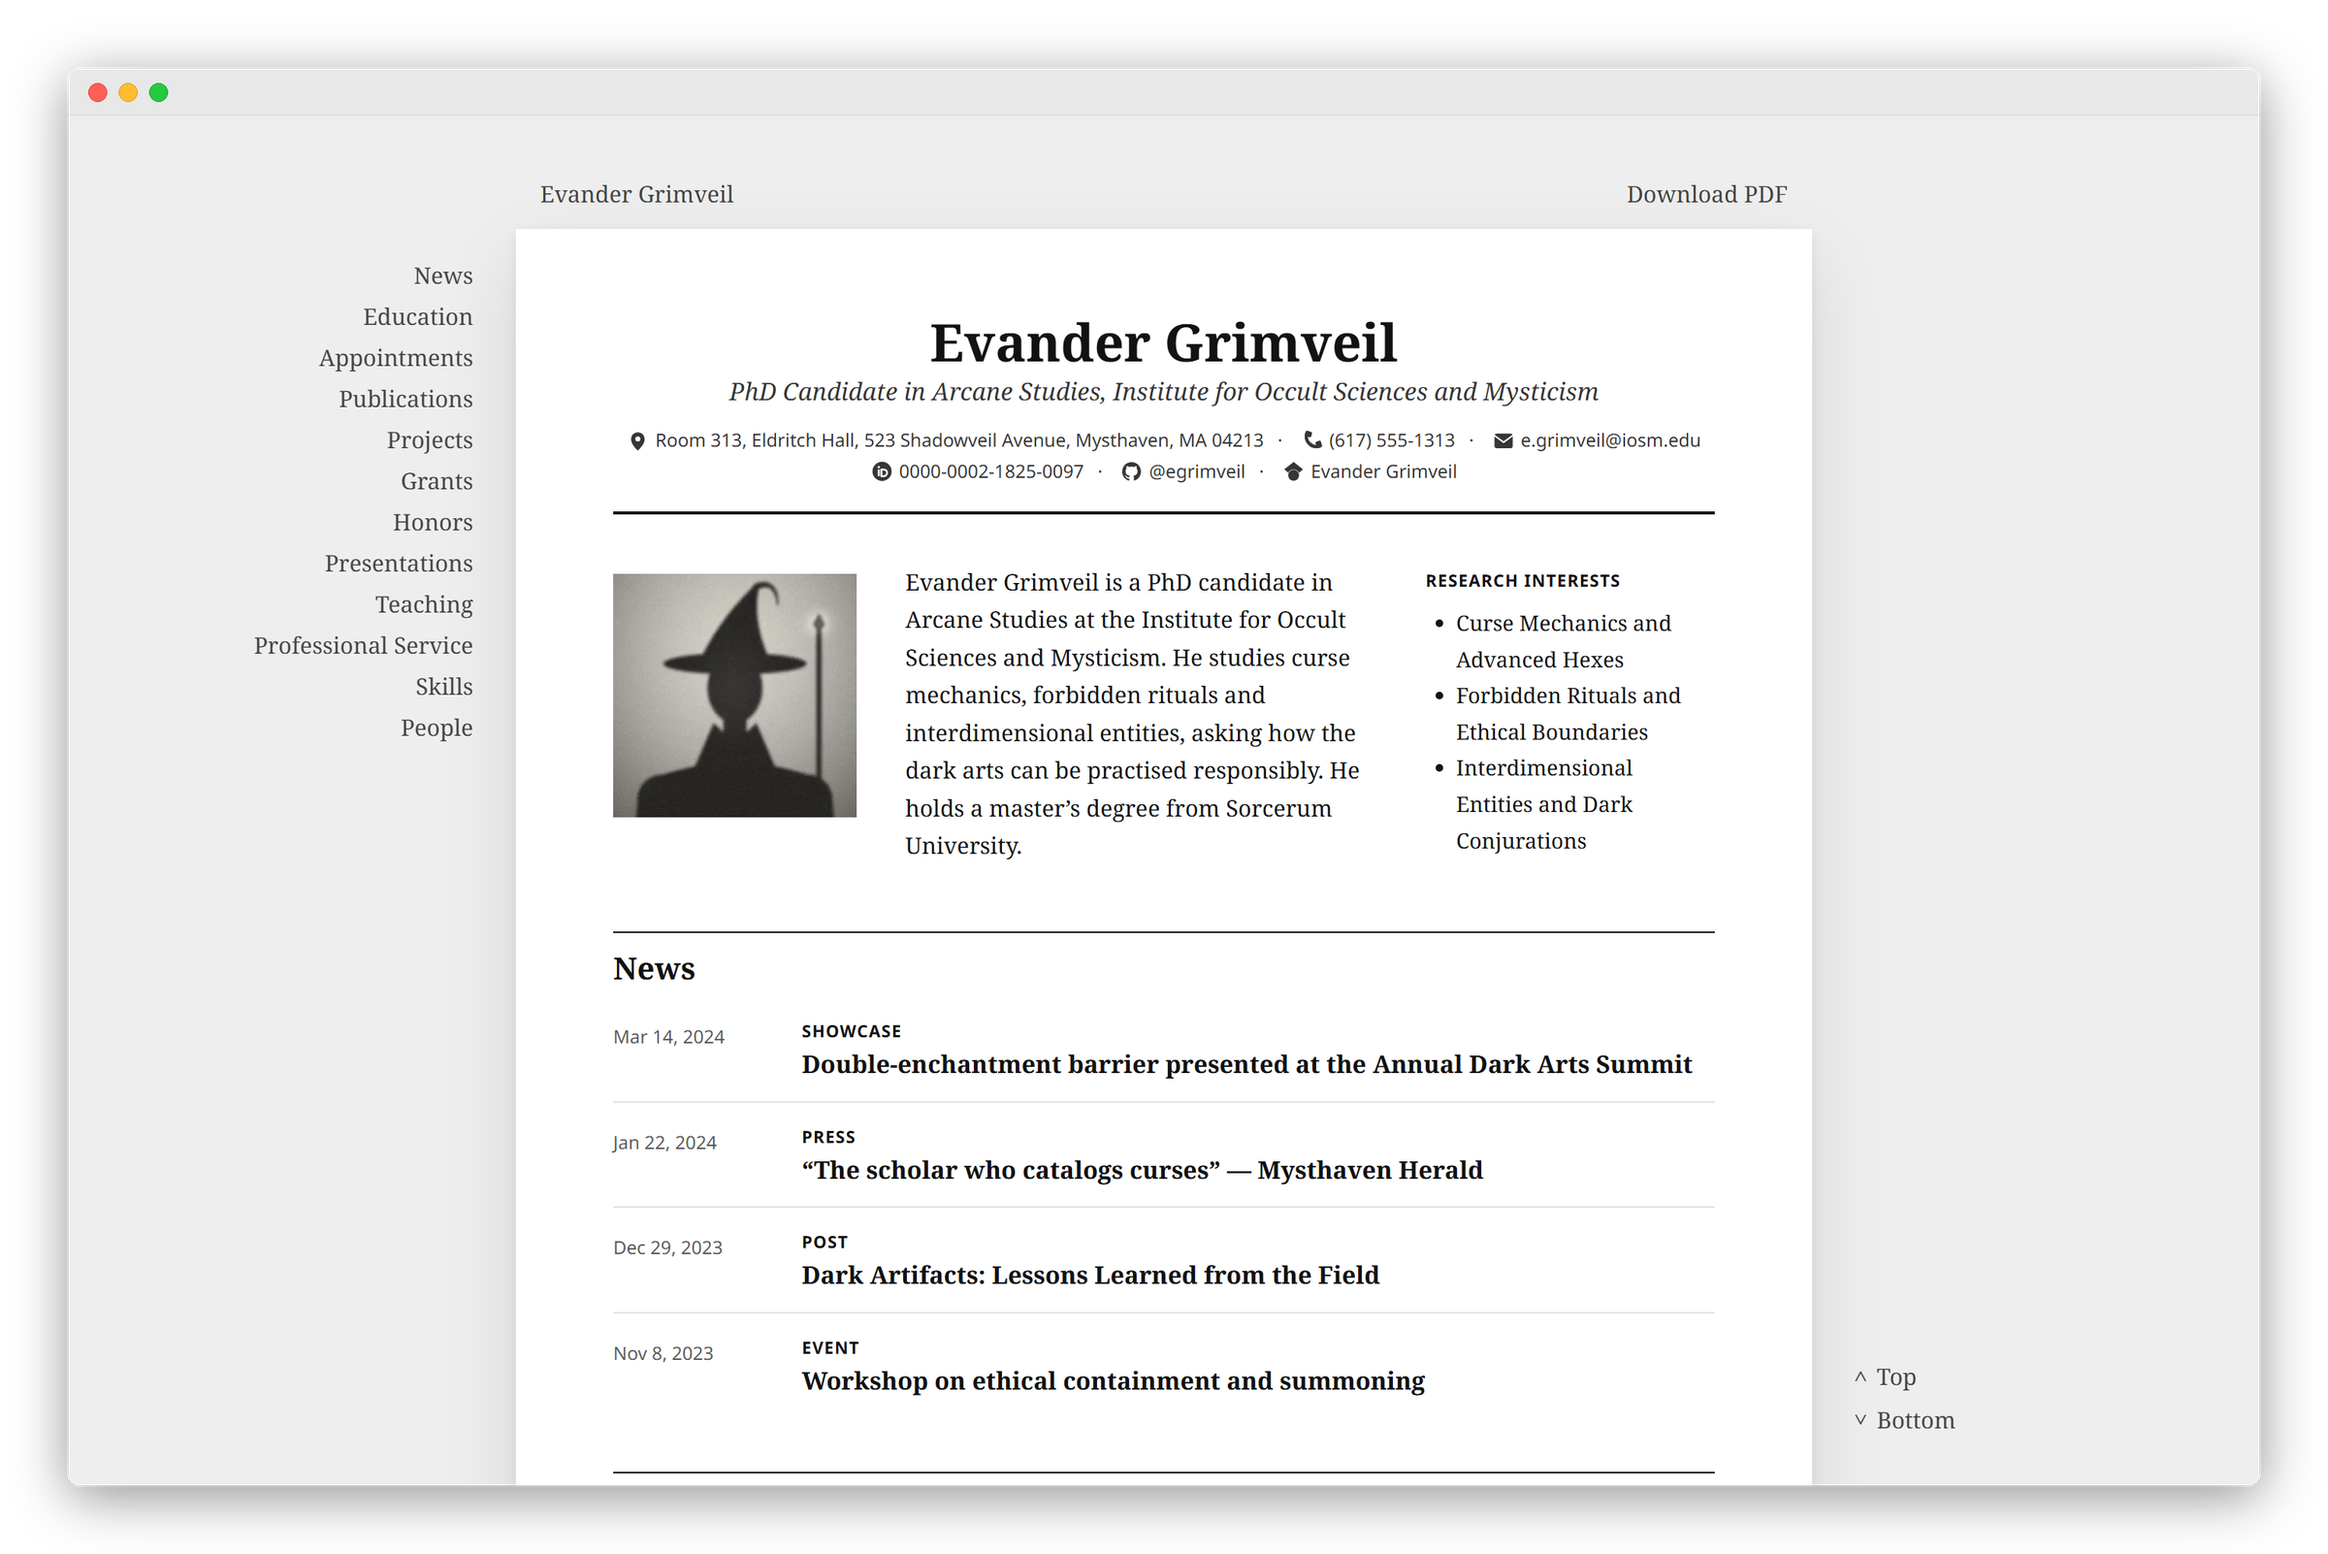
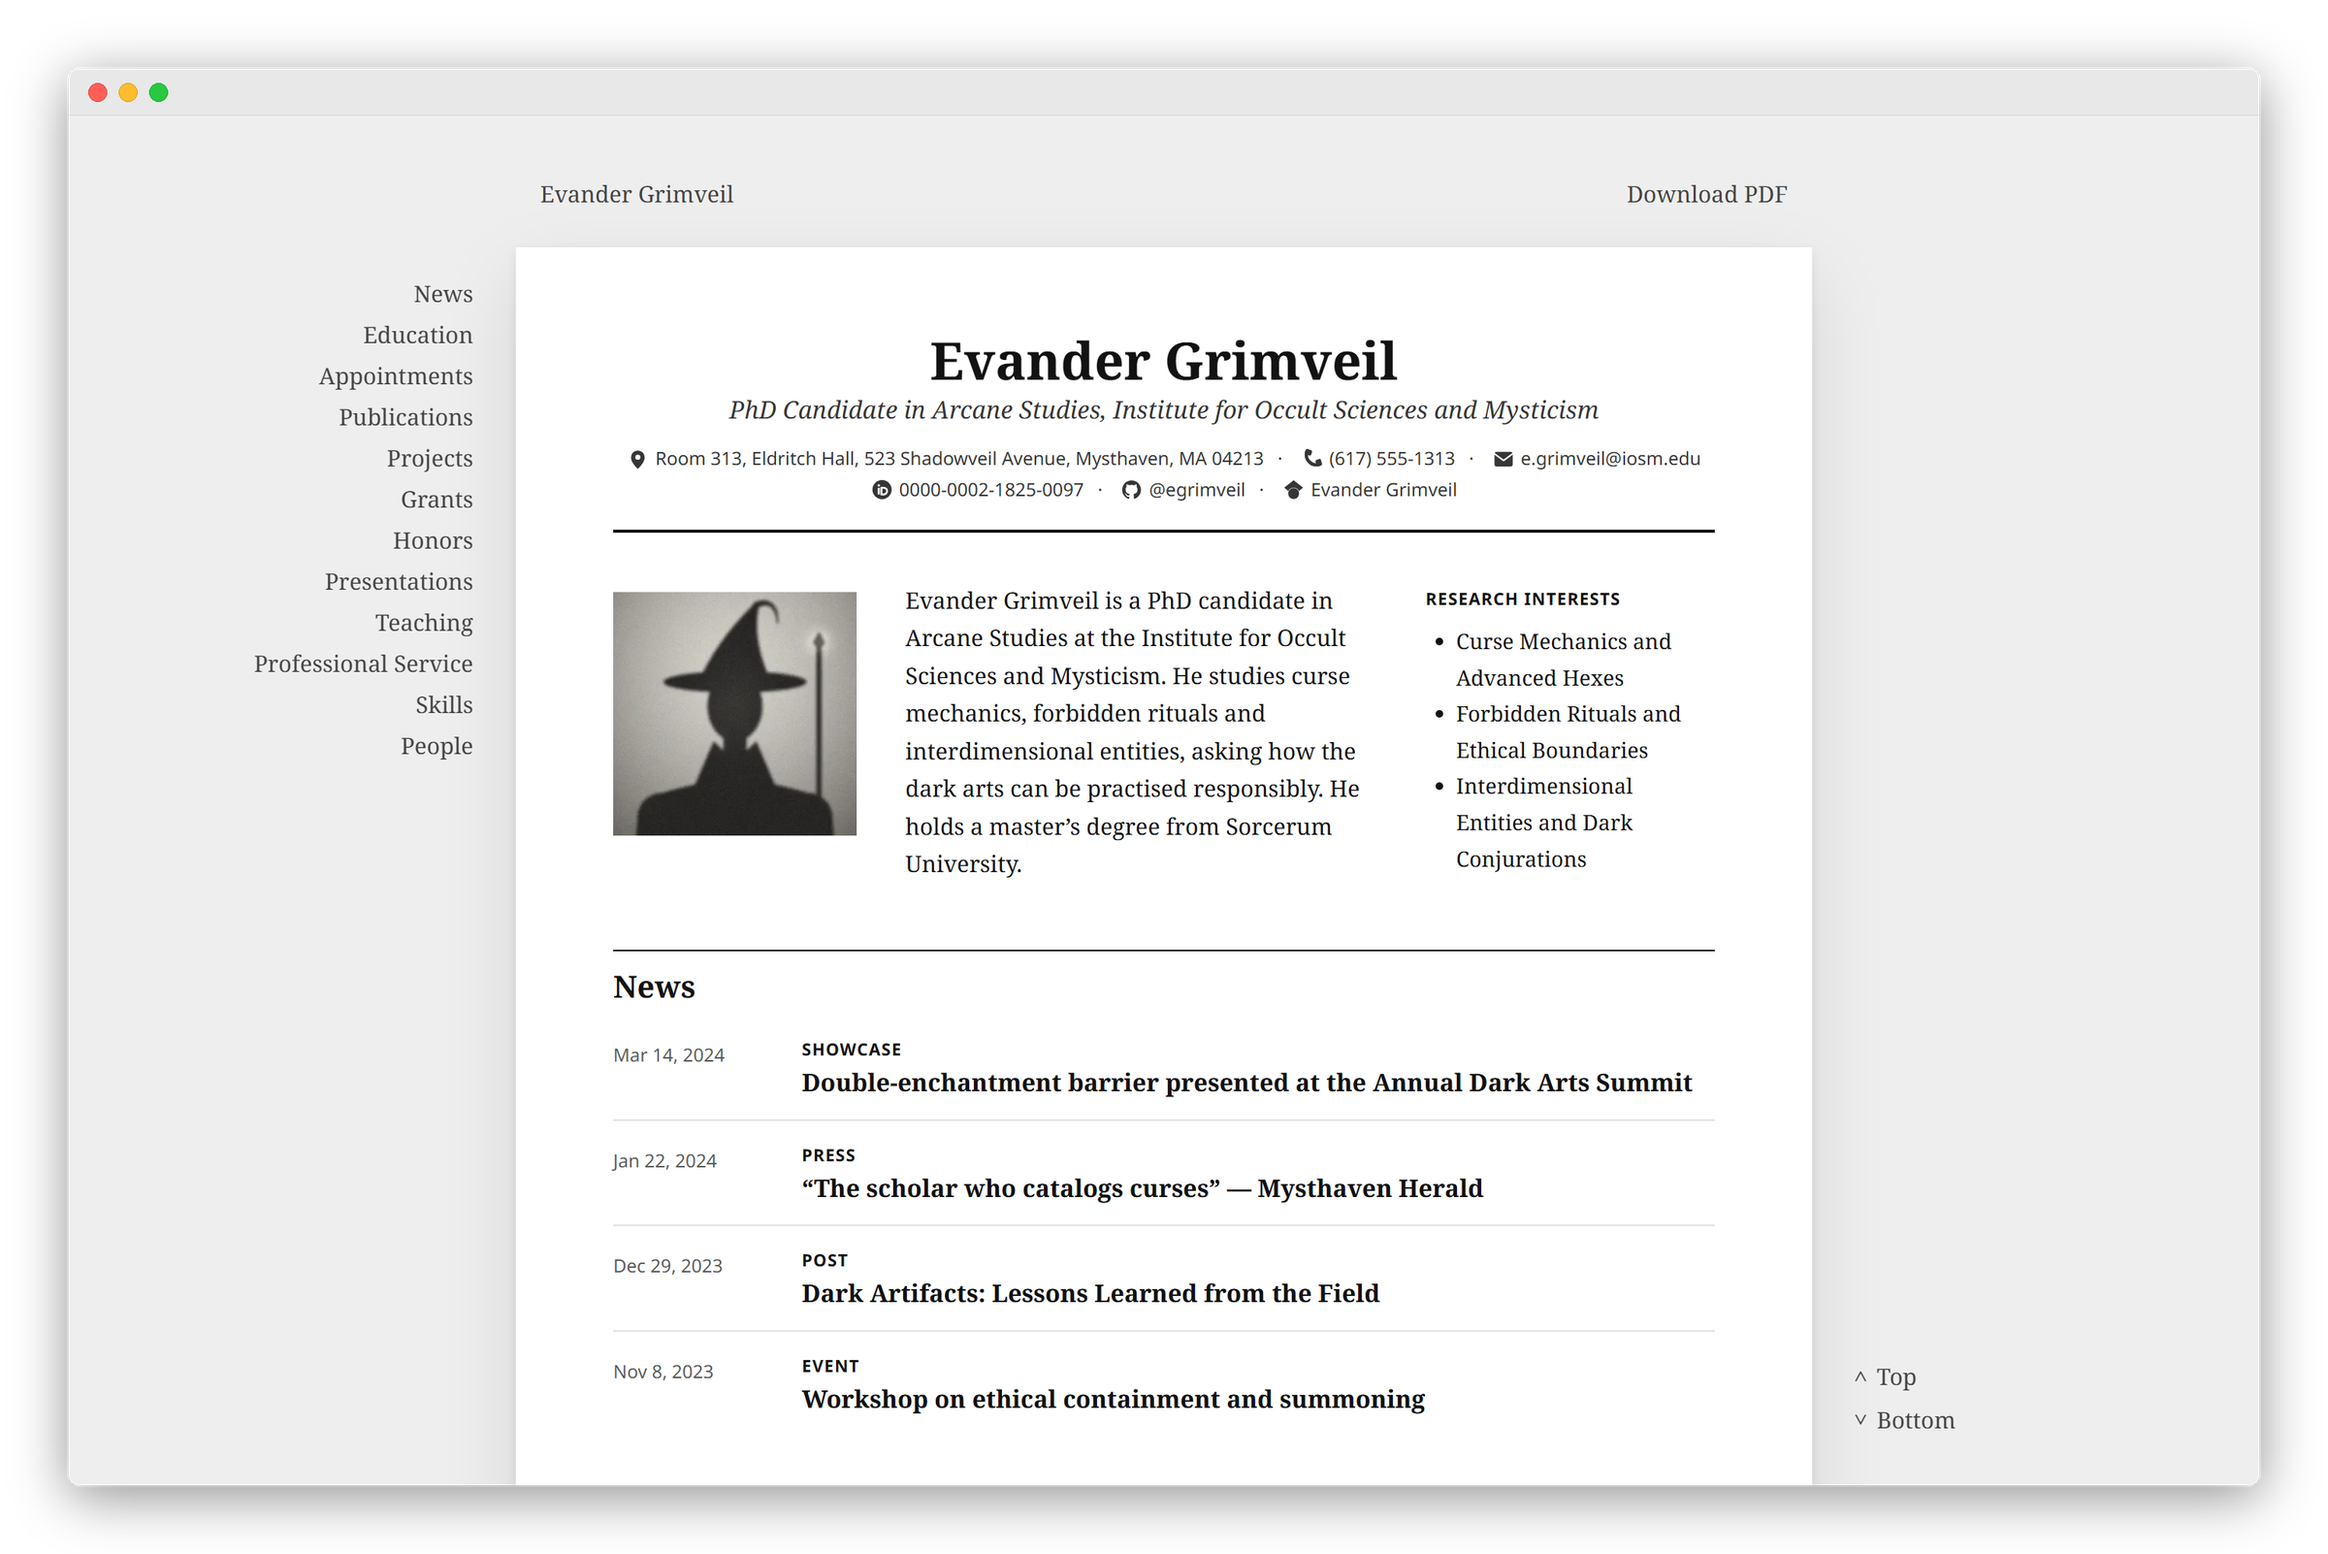
fix: fixed spacing inconsistencies

diff --git a/assets/css/main.css b/assets/css/main.css
@@ -48,6 +48,9 @@
 
 html {
   background: var(--desk);
+  /* Always keep room for the scrollbar, so short pages (no scrollbar) and long ones
+     are centred in the same width and don't shift sideways between pages. */
+  scrollbar-gutter: stable;
   -webkit-text-size-adjust: 100%;
   text-size-adjust: 100%;
 }
@@ -108,7 +111,6 @@ img { max-width: 100%; height: auto; }
   text-transform: uppercase;
 }
 
-
 /* Dates and other secondary metadata */
 .meta {
   font-family: var(--sans);
@@ -130,7 +132,7 @@ img { max-width: 100%; height: auto; }
 }
 
 .topbar {
-  padding: 40px clamp(16px, 3vw, 0px) 28px;
+  padding: 40px clamp(16px, 3vw, 0px) 24px;
   display: flex;
   flex-wrap: wrap;
   justify-content: space-between;
@@ -140,8 +142,6 @@ img { max-width: 100%; height: auto; }
   color: var(--chrome);
 }
 
-.topbar--home { padding-bottom: 12px; }
-
 .crumbs { min-width: 0; }
 .crumbs .sep { padding: 0 0.6em; }
 
@@ -150,7 +150,6 @@ img { max-width: 100%; height: auto; }
   gap: 24px;
   margin-left: auto;
 }
-
 
 .paper {
   color-scheme: light;
@@ -172,7 +171,6 @@ img { max-width: 100%; height: auto; }
 }
 
 .colophon-credit { margin-left: auto; }
-
 
 /* A message on the background instead of a page (the 404 page) */
 .desk-message {
@@ -994,7 +992,6 @@ img { max-width: 100%; height: auto; }
   .frame { max-width: none; padding: 0; }
   .paper { box-shadow: none; padding: 0; }
   .topbar, .colophon, .section-more, .navbar, .scroll-buttons { display: none; }
-
 
   .item, .pub, .news-row, .project-card, .mini-card, .people-grid > div {
     break-inside: avoid;

diff --git a/layouts/_partials/topbar.html b/layouts/_partials/topbar.html
@@ -1,5 +1,5 @@
 {{- $name := partialCached "func/name.html" . }}
-<div class="topbar{{ if .IsHome }} topbar--home{{ end }}">
+<div class="topbar">
   <nav class="crumbs" aria-label="Breadcrumb">
     {{- if .IsHome }}
     <span>{{ $name }}</span>
